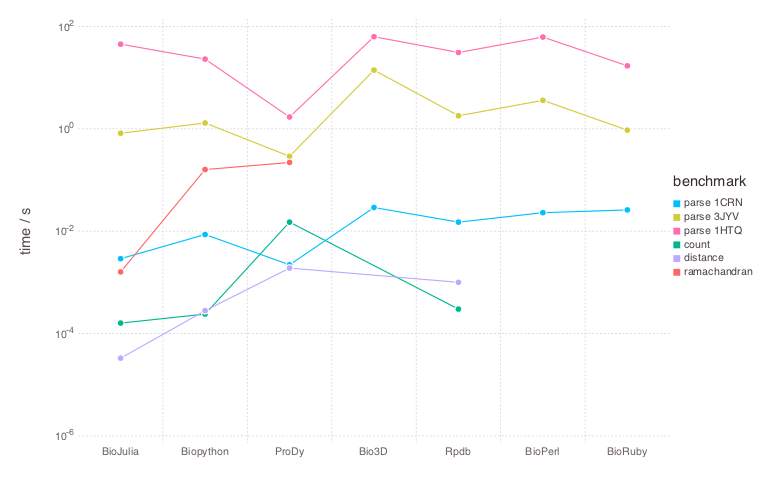
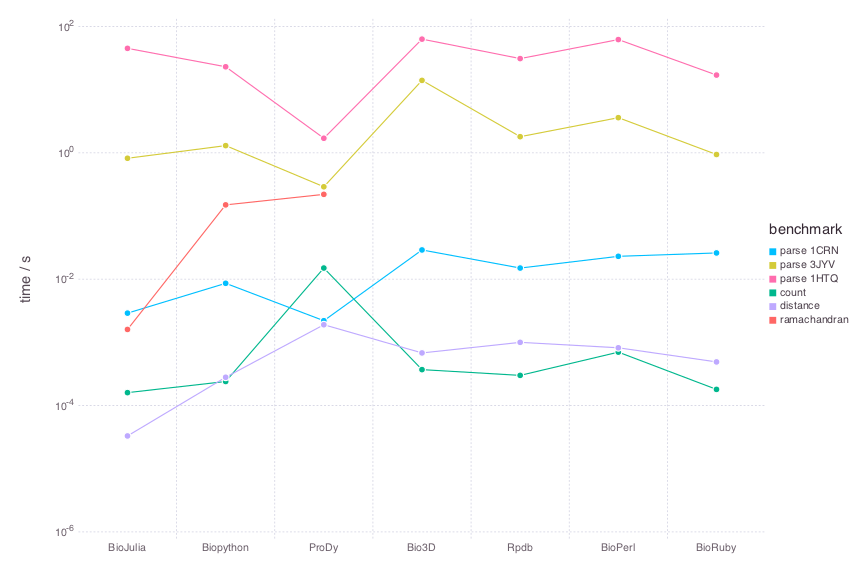
distance/count code for Bio3D/BioRuby/BioPerl

diff --git a/Biopython/ramachandran.py b/Biopython/ramachandran.py
@@ -19,11 +19,13 @@ def ramachandran():
         res = residues[i]
         res_prev = residues[i-1]
         res_next = residues[i+1]
-        # Check residues are not hetero residues and that they have sequential residue numbers
-        if res.get_id()[0] == " " and res_prev.get_id()[0] == " " and res_next.get_id()[0] == " " and res.get_id()[1] == res_prev.get_id()[1]+1 and res_next.get_id()[1] == res.get_id()[1]+1:
+        # Check residues have sequential residue numbers
+        if res.get_id()[1] == res_prev.get_id()[1]+1 and res_next.get_id()[1] == res.get_id()[1]+1:
             try:
-                phi_angles.append(calc_dihedral(res_prev["C"].get_vector(), res["N"].get_vector(), res["CA"].get_vector(), res["C"].get_vector()))
-                psi_angles.append(calc_dihedral(res["N"].get_vector(), res["CA"].get_vector(), res["C"].get_vector(), res_next["N"].get_vector()))
+                phi_angle = calc_dihedral(res_prev["C"].get_vector(), res["N"].get_vector(), res["CA"].get_vector(), res["C"].get_vector())
+                psi_angle = calc_dihedral(res["N"].get_vector(), res["CA"].get_vector(), res["C"].get_vector(), res_next["N"].get_vector())
+                phi_angles.append(phi_angle)
+                psi_angles.append(psi_angle)
             except:
                 pass
     return phi_angles, psi_angles

diff --git a/BioRuby/distance.rb b/BioRuby/distance.rb
@@ -1,0 +1,31 @@
+# Benchmark the calculation of a distance in a PDB file
+# The distance is the closest distance between any atoms of residues 50 and 60
+#   of chain A in 1AKE
+
+require "bio"
+require "benchmark"
+include Bio::PDB::Utils
+
+pdb_filepath = "pdbs/1AKE.pdb"
+runs = 1
+
+times = 0.0
+pdb = Bio::PDB.new(File.read(pdb_filepath))
+
+for i in 1..runs
+    elapsed = Benchmark.realtime {
+        res_50 = pdb.find_residue { |res| res.resSeq == 50 and res.chain.id == "A" }[0]
+        res_60 = pdb.find_residue { |res| res.resSeq == 60 and res.chain.id == "A" }[0]
+        min_dist = Float::INFINITY
+        res_50.each_atom do |atom_50|
+            res_60.each_atom do |atom_60|
+                if distance(atom_50, atom_60) < min_dist
+                    min_dist = distance(atom_50, atom_60)
+                end
+            end
+        end
+    }
+    times = times + elapsed
+end
+
+print "Average time per run: ", times / runs, "\n"

diff --git a/BioRuby/count.rb b/BioRuby/count.rb
@@ -1,16 +1,17 @@
-# Benchmark the parsing of a PDB file given as an argument
+# Benchmark the counting of alanine residues in a PDB file
 
 require "bio"
 require "benchmark"
 
-pdb_filepath = ARGV[0]
+pdb_filepath = "pdbs/1AKE.pdb"
 runs = 1
 
 times = 0.0
+pdb = Bio::PDB.new(File.read(pdb_filepath))
 
 for i in 1..runs
     elapsed = Benchmark.realtime {
-        pdb = Bio::PDB.new(File.read(pdb_filepath))
+        pdb.find_residue { |res| res.resName == "ALA" }.length
     }
     times = times + elapsed
 end

diff --git a/README.md b/README.md
@@ -35,6 +35,7 @@ The PDB files can be downloaded to directory `pdbs` by running `source download_
 * [Bio3D](http://thegrantlab.org/bio3d/index.php) v2.2-2 running on R v3.2.2
 * [Rpdb](https://cran.r-project.org/web/packages/Rpdb/index.html) v2.2 running on R v3.2.2
 * [BioPerl](http://bioperl.org/index.html) v1.6.924 running on Perl v5.18.2
+* [BioRuby](http://bioruby.org/) v1.5.0 running on Ruby v2.0.0
 * [BioJava](http://biojava.org/) v... running on Java v1.8.0_91
 
 
@@ -66,3 +67,8 @@ All times in seconds.
 | License               | MIT          | Biopython    | MIT          | GPLv2        | GPL          | GPL/Artistic | Ruby         | LGPL
 
 ![benchmarks](plot/plot.png "benchmarks")
+
+
+## Opinions
+
+* For most purposes, particularly work on small numbers of files, the speed of the programs will not hold you back. In this case use the language/package you are most familiar with.
